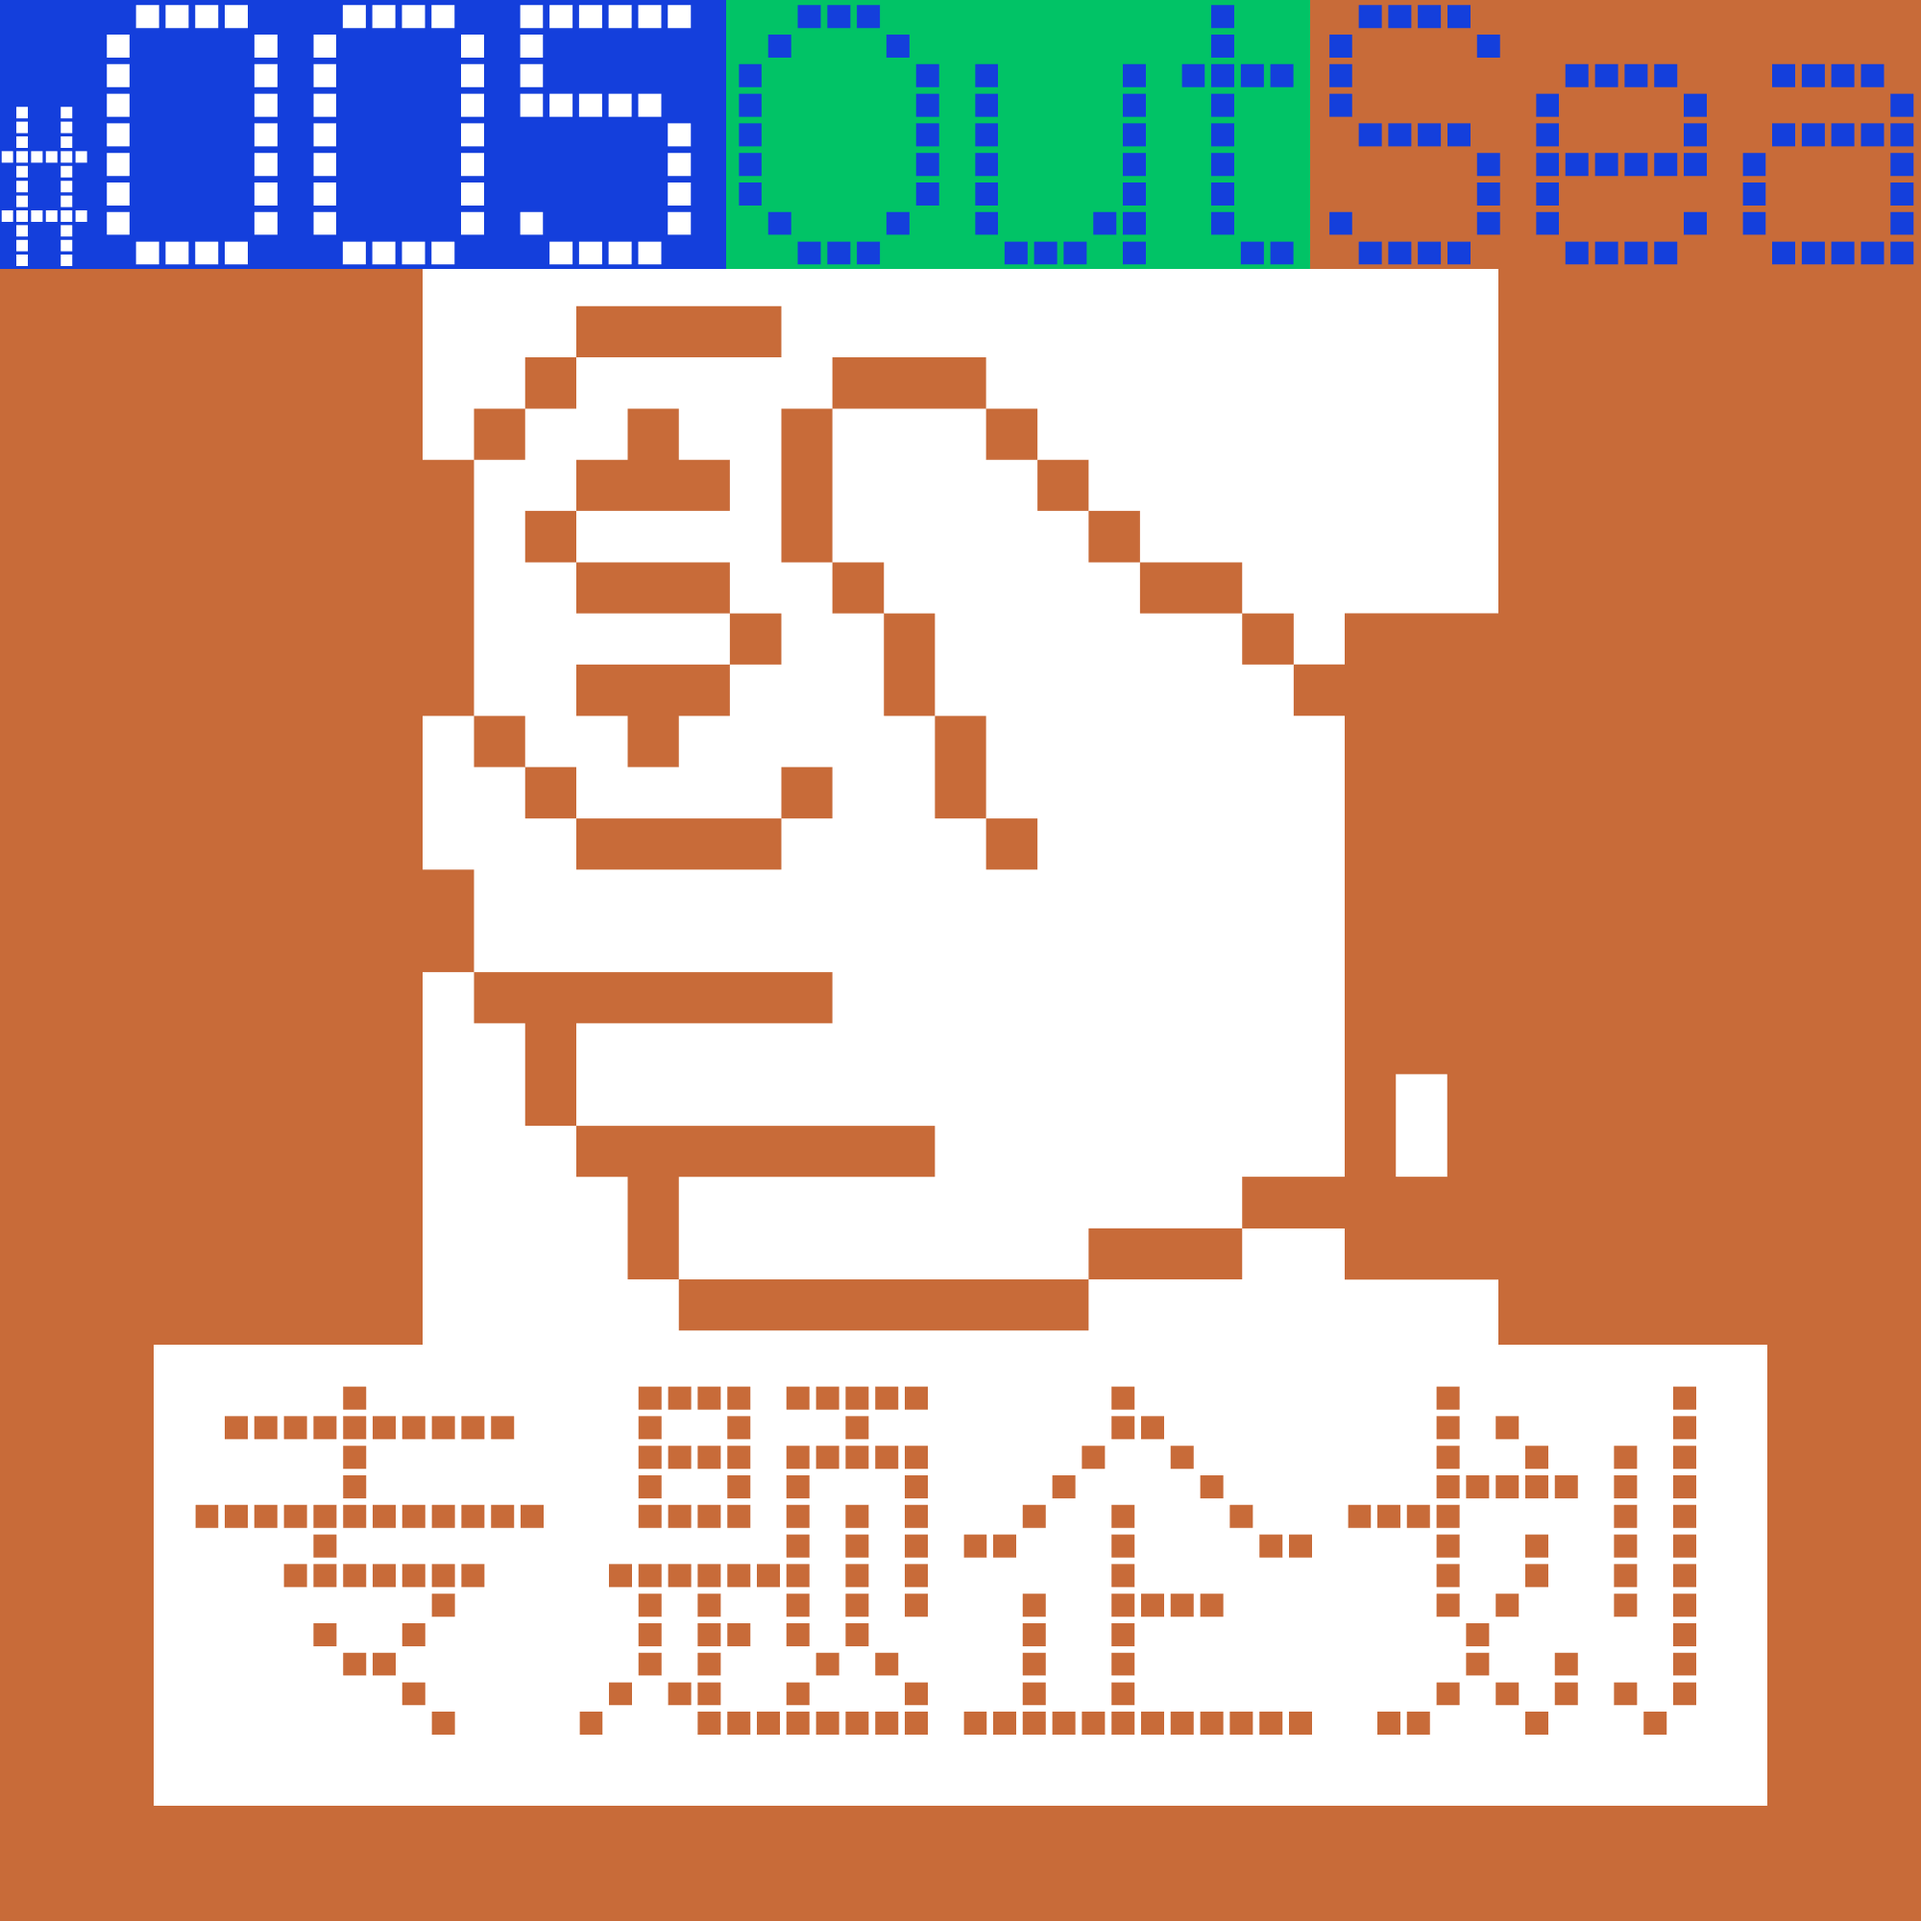
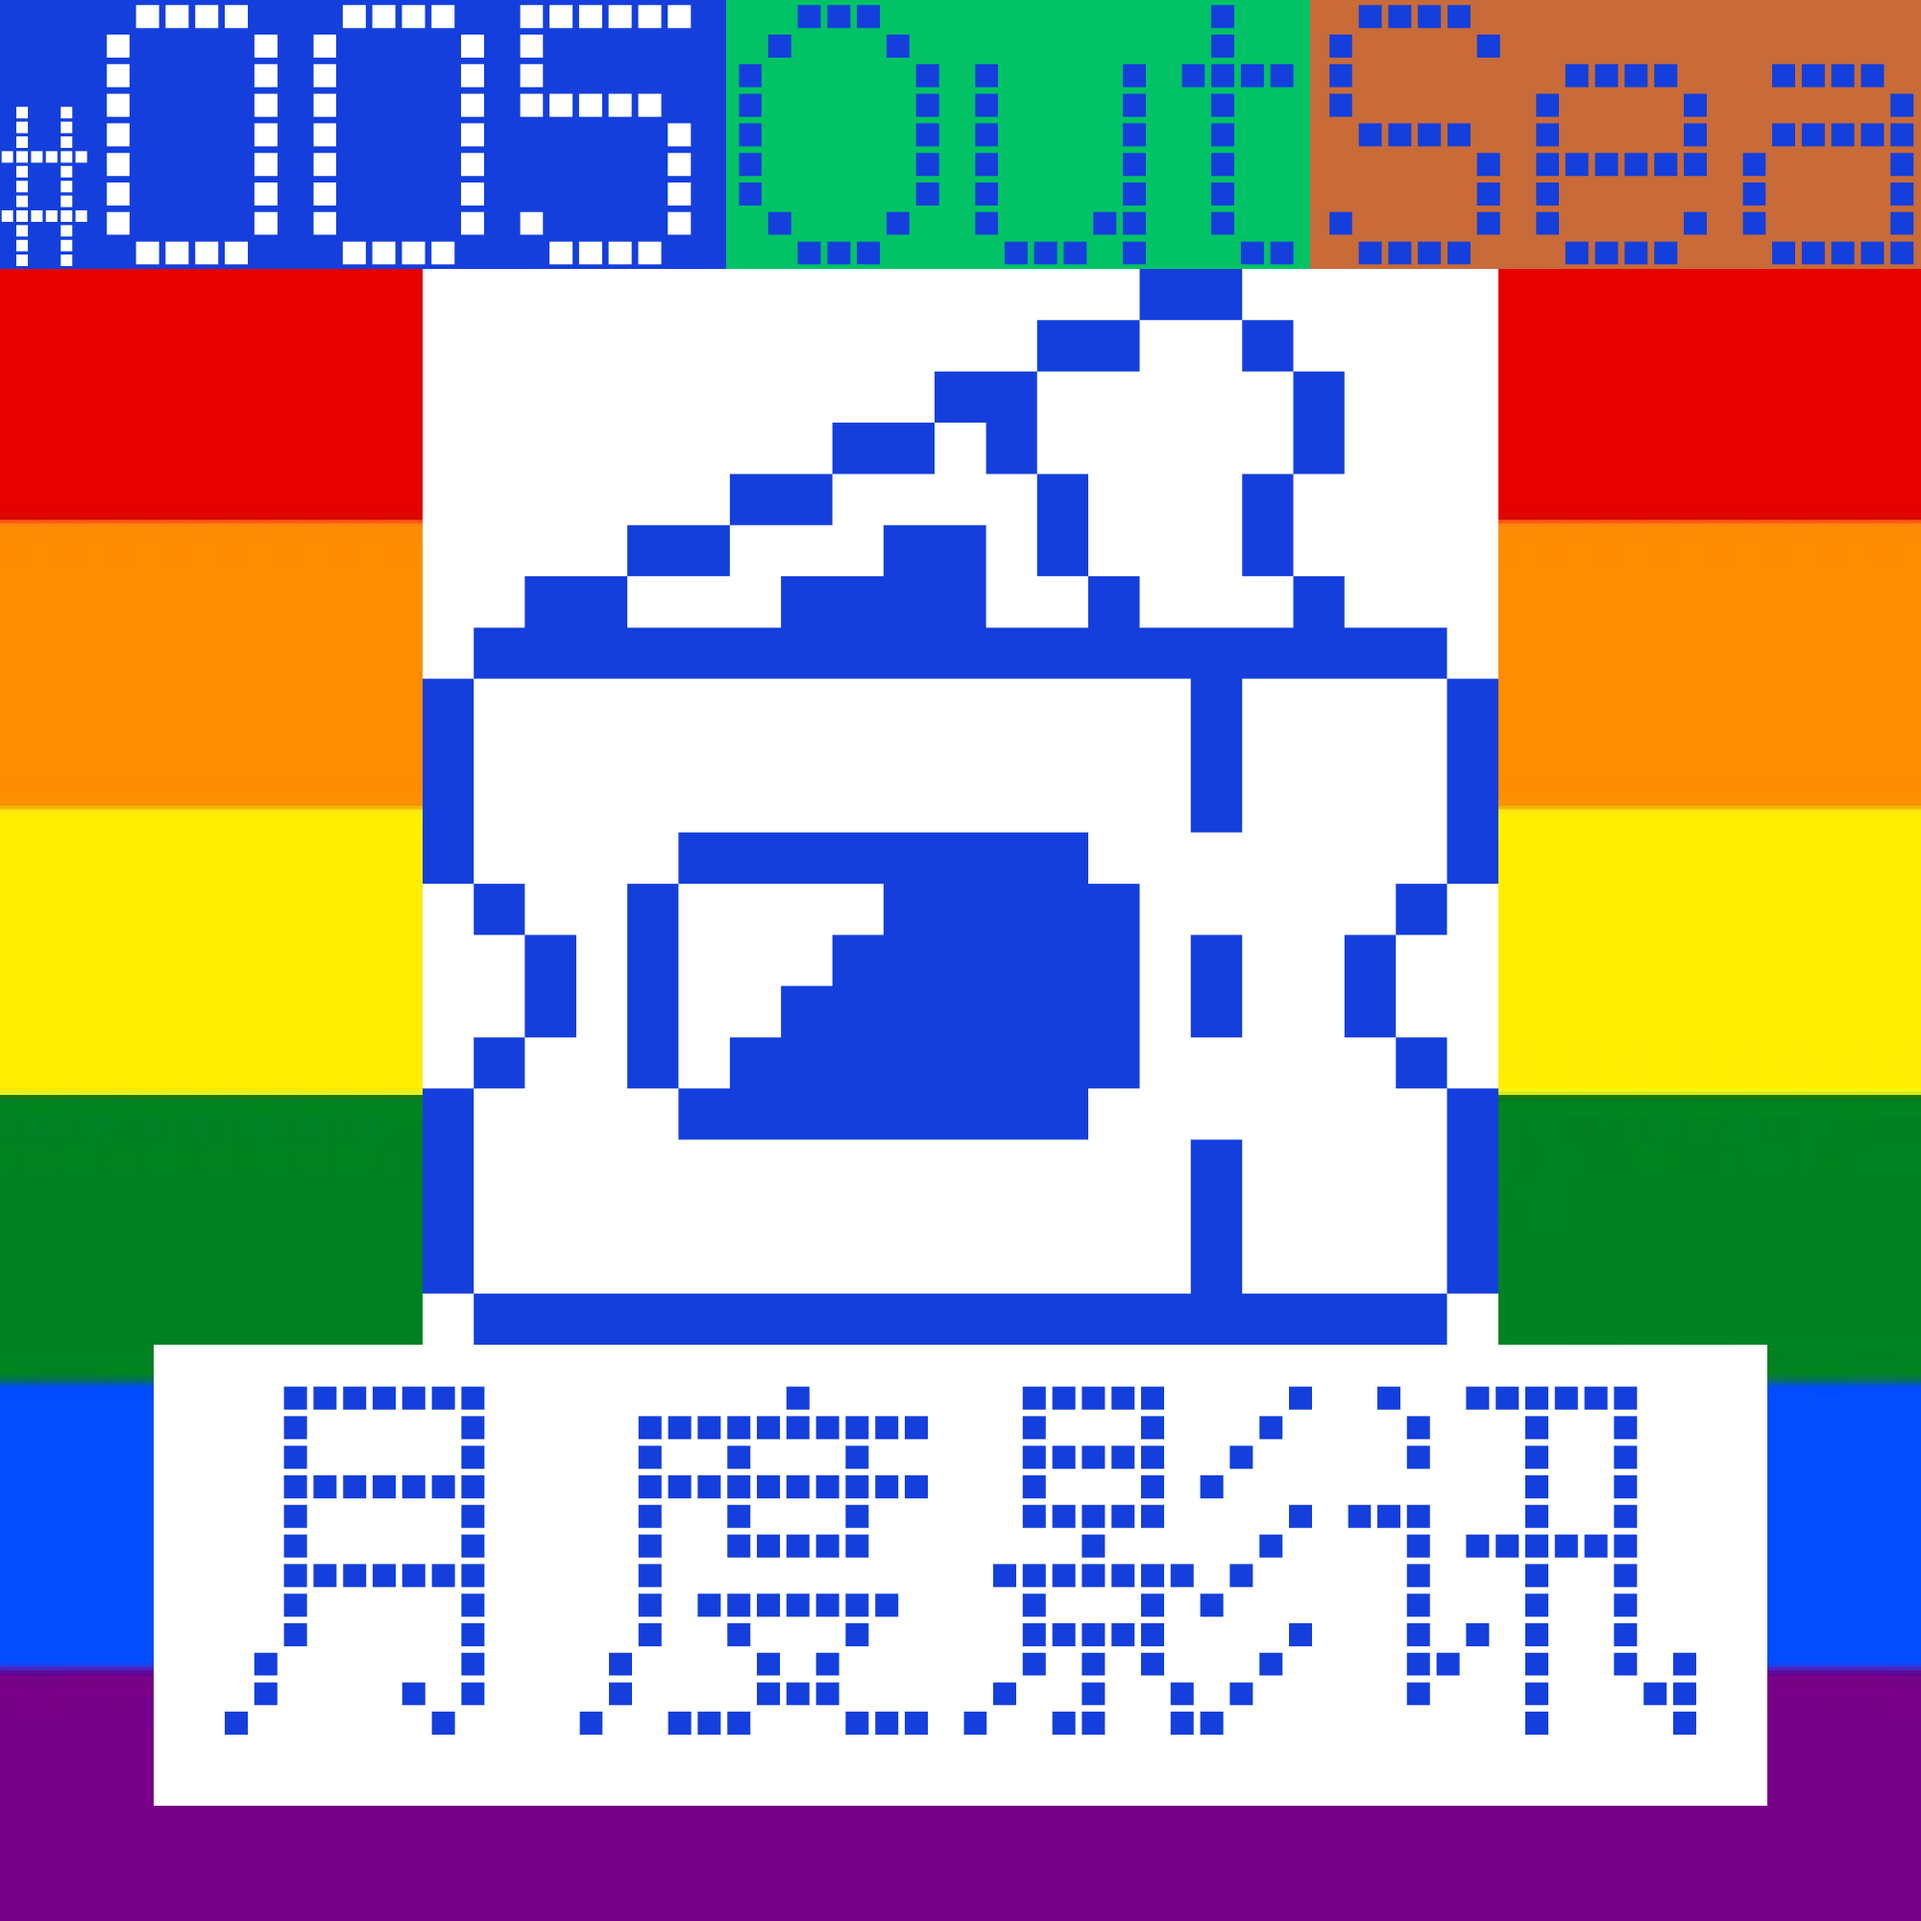
E005

diff --git a/index.html b/index.html
@@ -148,6 +148,14 @@ canvas{display:block;cursor:pointer;position:fixed;top:0;left:0;z-index:10}
         <a href="https://open.spotify.com/episode/24twUGnpOXZKh4xdRJ2qP8" target="_blank"><img src="E003.png" alt="E003"></a>
         <p>E003｜很遗憾，金棕榈是蒙吉（本期有戛纳礼品福利）</p>
       </div>
+      <div class="episode">
+        <a href="https://open.spotify.com/episode/56uxuWJO2BmCO7ukmkbSD7" target="_blank"><img src="E004.png" alt="E004"></a>
+        <p>E004｜在欧洲谁还在原价看电影啊？</p>
+      </div>
+      <div class="episode">
+        <a href="https://open.spotify.com/episode/4ovOjMVIM7ZuFf4p2cAlL4" target="_blank"><img src="E005.png" alt="E005"></a>
+        <p>E005｜骄傲月来了！</p>
+      </div>
     </div>
   </div>
 
@@ -170,7 +178,7 @@ canvas{display:block;cursor:pointer;position:fixed;top:0;left:0;z-index:10}
       <span>微信群</span>
       <span>小红书群</span>
     </div>
-    <div style="margin-top:32px"><img src="qrcode3.jpg" alt="群二维码" style="width:200px;border-radius:4px"></div>
+    <div style="margin-top:32px"><img src="qrcode4.jpg" alt="群二维码" style="width:200px;border-radius:4px"></div>
   </div>
 
   <div class="footer">© 2026 离岸OutSea</div>
